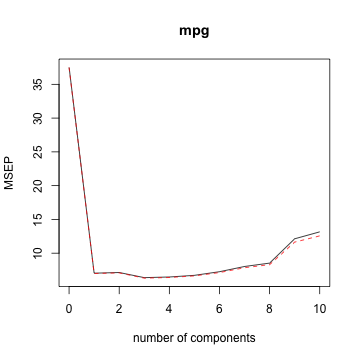
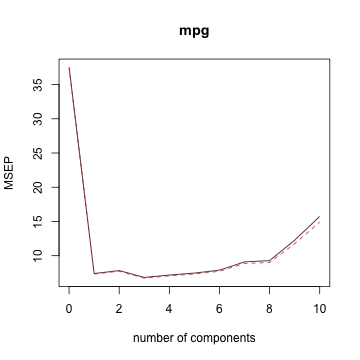
implement edits

diff --git a/_posts/2016-01-03-Principal-Components-Analysis.md b/_posts/2016-01-03-Principal-Components-Analysis.md
@@ -9,9 +9,6 @@ categories: ['statistics', 'multivariate analysis']
 {:toc}
 
 
-{% highlight text %}
-## Error in library(pls): there is no package called 'pls'
-{% endhighlight %}
 
 # Principal Components Analysis (PCA)
 PCA is a dimension-reduction tecnique that produces a low-dimensional representation of a high-dimensional dataset. It finds a sequence of linear combinations of the variables that have
@@ -177,17 +174,6 @@ In R, one can do principal components regression with `pls::pcr()`. This package
 {% highlight r %}
 # fit PCR
 pcr.fit <- pls::pcr(mpg ~ ., data = mtcars, scale = TRUE, validation = "CV")
-{% endhighlight %}
-
-
-
-{% highlight text %}
-## Error in loadNamespace(name): there is no package called 'pls'
-{% endhighlight %}
-
-
-
-{% highlight r %}
 # results
 summary(pcr.fit)
 {% endhighlight %}
@@ -195,7 +181,27 @@ summary(pcr.fit)
 
 
 {% highlight text %}
-## Error in summary(pcr.fit): object 'pcr.fit' not found
+## Data: 	X dimension: 32 10 
+## 	Y dimension: 32 1
+## Fit method: svdpc
+## Number of components considered: 10
+## 
+## VALIDATION: RMSEP
+## Cross-validated using 10 random segments.
+##        (Intercept)  1 comps  2 comps  3 comps  4 comps  5 comps
+## CV           6.123    2.719    2.797    2.612    2.678    2.731
+## adjCV        6.123    2.707    2.781    2.593    2.656    2.706
+##        6 comps  7 comps  8 comps  9 comps  10 comps
+## CV       2.807    3.016    3.046    3.502     3.968
+## adjCV    2.778    2.977    3.003    3.428     3.861
+## 
+## TRAINING: % variance explained
+##      1 comps  2 comps  3 comps  4 comps  5 comps  6 comps  7 comps
+## X      57.60    84.10    90.07    92.77    94.99    97.09    98.42
+## mpg    82.53    82.63    85.40    85.41    85.47    85.56    85.58
+##      8 comps  9 comps  10 comps
+## X      99.23    99.76     100.0
+## mpg    85.85    86.09      86.9
 {% endhighlight %}
 
 
@@ -204,11 +210,7 @@ summary(pcr.fit)
 pls::validationplot(pcr.fit, val.type = "MSEP")
 {% endhighlight %}
 
-
-
-{% highlight text %}
-## Error in loadNamespace(name): there is no package called 'pls'
-{% endhighlight %}
+<img src="/nhuyhoa/figure/source/2016-01-03-Principal-Components-Analysis/unnamed-chunk-9-1.png" title="plot of chunk unnamed-chunk-9" alt="plot of chunk unnamed-chunk-9" style="display: block; margin: auto;" />
 So here using 3 principal components is preferred. To specify a a number of components, pass the argument `ncomps = n` instead of the `validation` argument. 
 
 # Partial Least Squares
